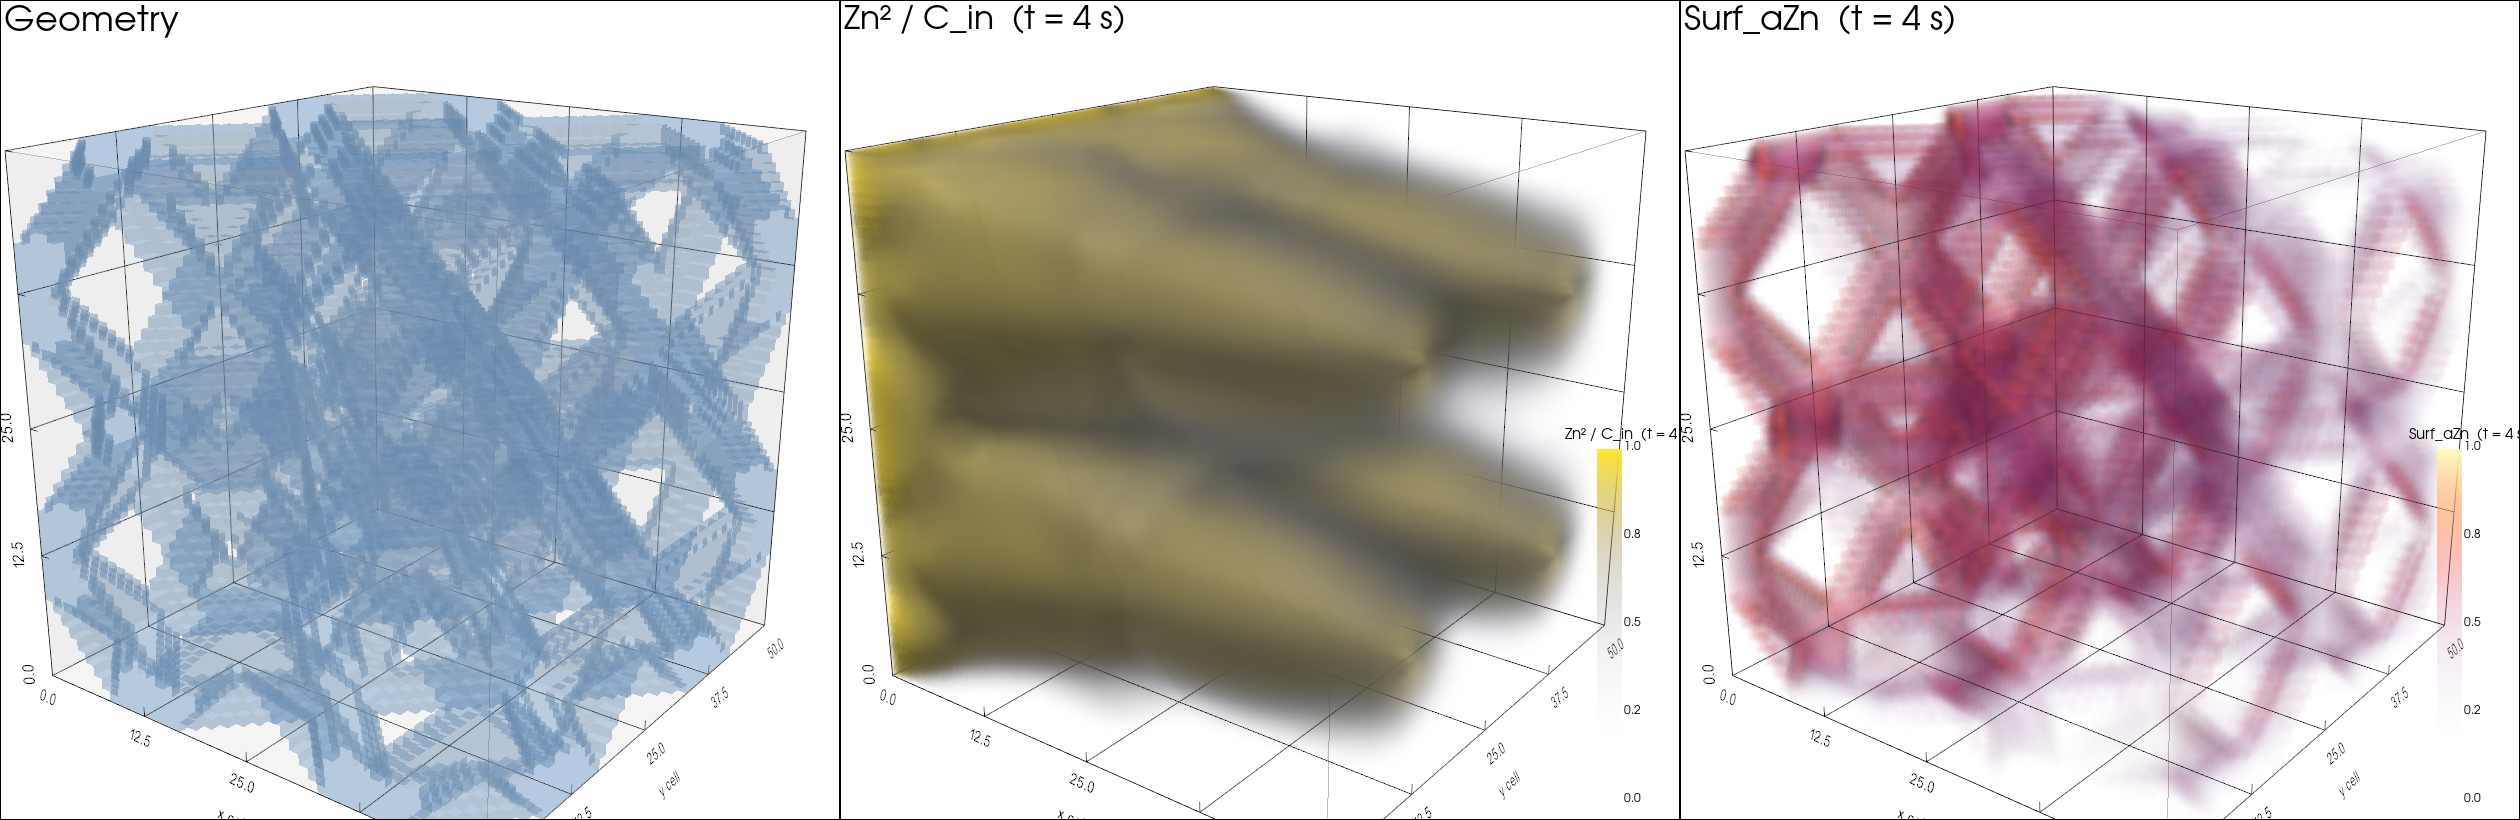
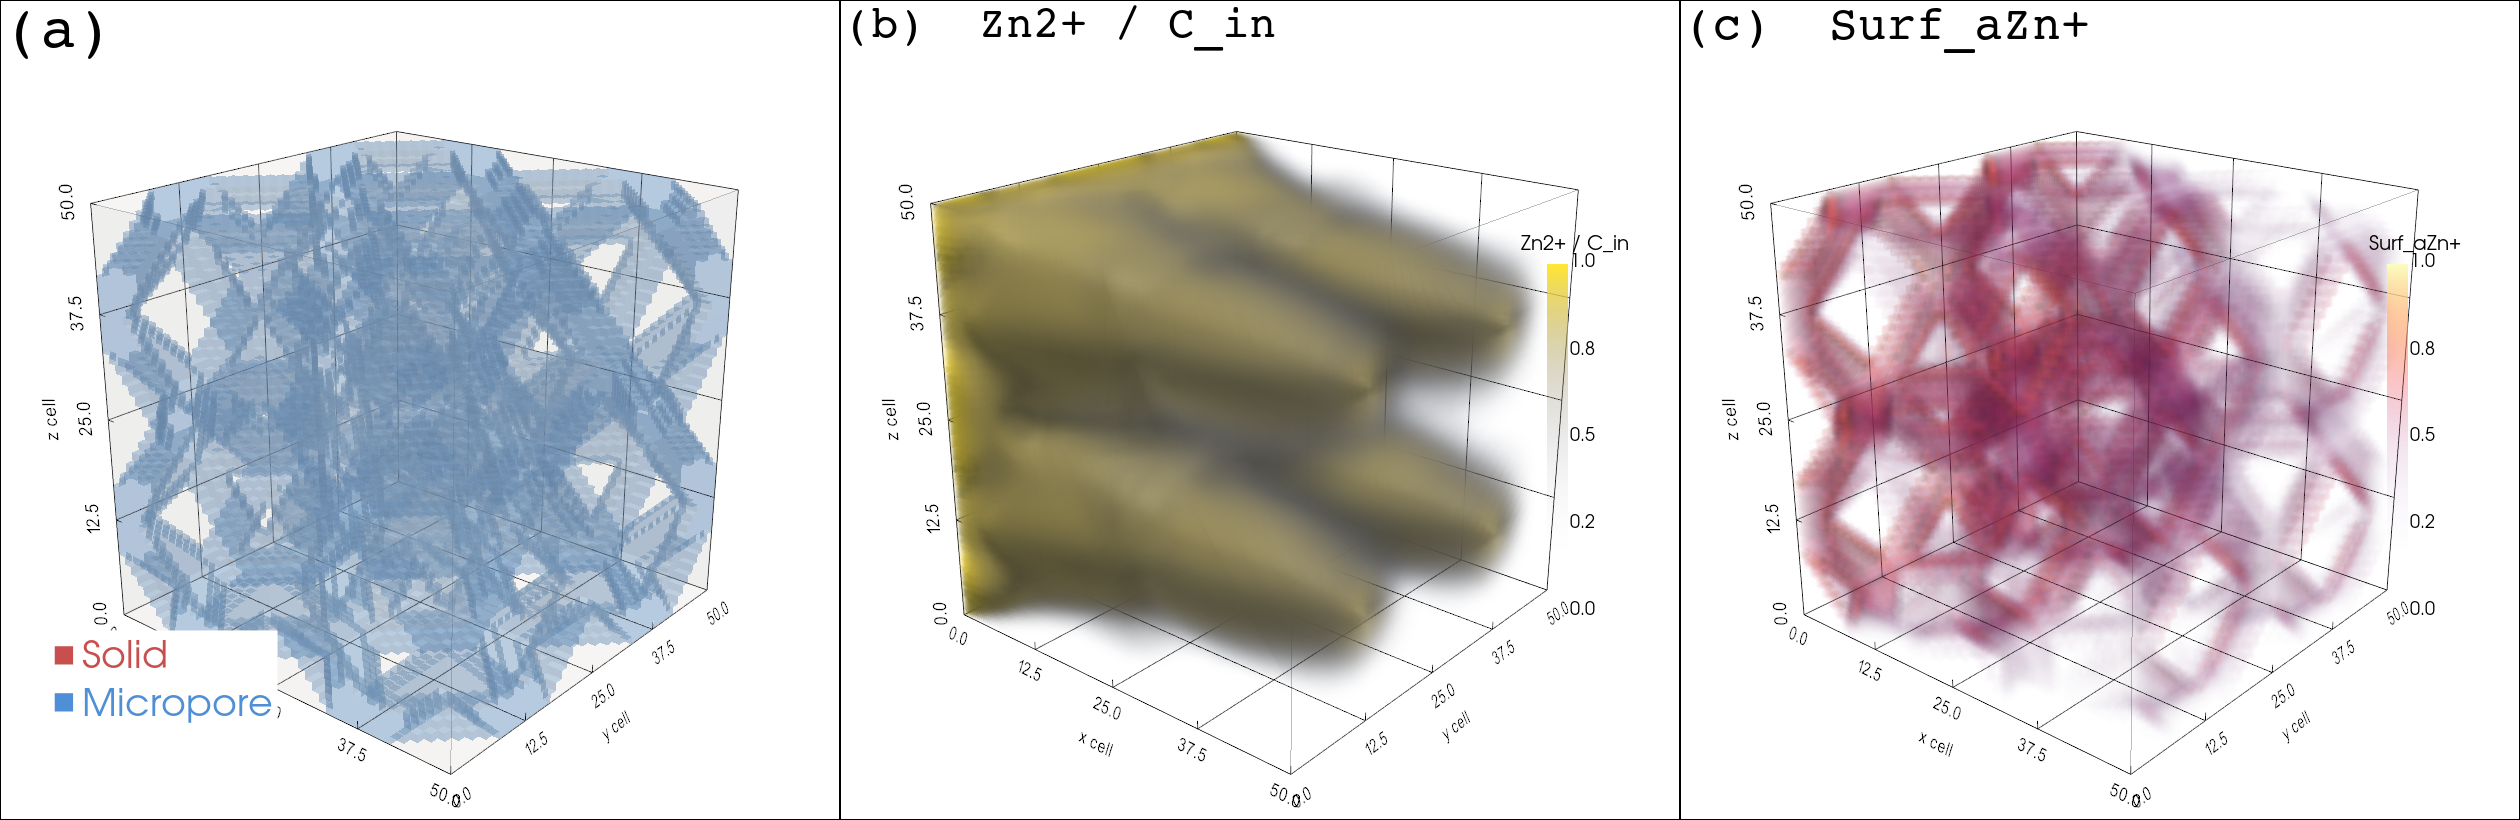
fix: add (a)-(d) panel labels, geometry legend, larger fonts; update captions
Add panel letter labels, phase legend to geometry panel, larger scalar bar
fonts, and move time to captions only. Update fig03/fig04 LaTeX captions to
describe panels (a)-(c) and (a)-(d) respectively.

diff --git a/figures/scripts/generate_3d_volume_render_pyvista.py b/figures/scripts/generate_3d_volume_render_pyvista.py
@@ -158,6 +158,7 @@ def add_geometry_panel(
     nx: int,
     ny: int,
     nz: int,
+    panel_label: str = "(a)",
 ) -> None:
     plotter.subplot(*subplot)
     plotter.set_background("white")
@@ -166,9 +167,9 @@ def add_geometry_panel(
     image.cell_data["phase"] = labels.flatten(order="F")
 
     phase_defs = [
-        (0, "solid", "#c94f4f", 0.28),
-        (1, "micropore", "#4f8fd6", 0.22),
-        (2, "pore", "#ffffff", 0.14),
+        (0, "Solid", "#c94f4f", 0.28),
+        (1, "Micropore", "#4f8fd6", 0.22),
+        (2, "Pore", "#ffffff", 0.14),
     ]
 
     for phase_value, _, color, opacity in phase_defs:
@@ -196,7 +197,15 @@ def add_geometry_panel(
         line_width=1.0,
         opacity=0.35,
     )
-    plotter.add_text("Geometry", position="upper_left", font_size=15, color="black")
+    plotter.add_text(panel_label, position="upper_left", font_size=24, color="black", font="courier")
+    plotter.add_legend(
+        labels=[(name, color) for _, name, color, _ in phase_defs],
+        face="rectangle",
+        bcolor="white",
+        border=True,
+        size=(0.28, 0.18),
+        loc="lower left",
+    )
     plotter.show_bounds(
         grid="back",
         location="outer",
@@ -204,7 +213,7 @@ def add_geometry_panel(
         xtitle="x cell",
         ytitle="y cell",
         ztitle="z cell",
-        font_size=12,
+        font_size=14,
         color="black",
     )
     plotter.camera_position = camera_position(nx, ny, nz)
@@ -212,7 +221,7 @@ def add_geometry_panel(
 
 def camera_position(nx: int, ny: int, nz: int) -> list[tuple[float, float, float]]:
     centre = (0.5 * nx, 0.5 * ny, 0.5 * nz)
-    position = (2.1 * nx, -1.65 * ny, 1.45 * nz)
+    position = (2.6 * nx, -2.0 * ny, 1.8 * nz)
     view_up = (0.0, 0.0, 1.0)
     return [position, centre, view_up]
 
@@ -227,6 +236,7 @@ def add_volume_panel(
     nx: int,
     ny: int,
     nz: int,
+    panel_label: str = "",
 ) -> None:
     plotter.subplot(*subplot)
     plotter.set_background("white")
@@ -244,8 +254,11 @@ def add_volume_panel(
             "title": scalar_bar_title,
             "vertical": True,
             "fmt": "%.1f",
-            "title_font_size": 15,
-            "label_font_size": 12,
+            "title_font_size": 20,
+            "label_font_size": 18,
+            "width": 0.07,
+            "position_x": 0.84,
+            "position_y": 0.25,
         },
     )
     plotter.add_mesh(
@@ -254,7 +267,7 @@ def add_volume_panel(
         line_width=1.0,
         opacity=0.35,
     )
-    plotter.add_text(title, position="upper_left", font_size=15, color="black")
+    plotter.add_text(f"{panel_label}  {title}", position="upper_left", font_size=20, color="black", font="courier")
     plotter.show_bounds(
         grid="back",
         location="outer",
@@ -262,7 +275,7 @@ def add_volume_panel(
         xtitle="x cell",
         ytitle="y cell",
         ztitle="z cell",
-        font_size=12,
+        font_size=14,
         color="black",
     )
     plotter.camera_position = camera_position(nx, ny, nz)
@@ -288,6 +301,7 @@ def main() -> None:
     parser.add_argument("--surface-title", default=None)
     parser.add_argument("--second-aqueous-field", default=None)
     parser.add_argument("--second-aqueous-title", default=None)
+    parser.add_argument("--second-aqueous-log-scale", action="store_true")
     args = parser.parse_args()
 
     pv.OFF_SCREEN = True
@@ -350,7 +364,7 @@ def main() -> None:
 
     use_2x2 = second_aqueous is not None
     shape = (2, 2) if use_2x2 else (1, 3)
-    win_size = (1680, 1640) if use_2x2 else (2520, 820)
+    win_size = (2800, 2800) if use_2x2 else (2520, 820)
     plotter = pv.Plotter(shape=shape, off_screen=True, window_size=win_size)
 
     add_geometry_panel(
@@ -360,11 +374,12 @@ def main() -> None:
         nx=nx,
         ny=ny,
         nz=nz,
+        panel_label="(a)",
     )
 
-    aq_title = args.aqueous_title if args.aqueous_title else f"{args.aqueous_field} / C_in  (t = {args.time_name})"
-    aq_bar = args.aqueous_title if args.aqueous_title else f"Norm. {args.aqueous_field} / C_in"
-    surf_title = args.surface_title if args.surface_title else f"\u0394{args.surface_field}  (t = {args.time_name})"
+    aq_title = args.aqueous_title if args.aqueous_title else f"{args.aqueous_field} / C_in"
+    aq_bar = args.aqueous_title if args.aqueous_title else f"Norm. {args.aqueous_field}"
+    surf_title = args.surface_title if args.surface_title else f"\u0394{args.surface_field}"
     surf_bar = args.surface_title if args.surface_title else f"Norm. \u0394{args.surface_field}"
 
     add_volume_panel(
@@ -377,6 +392,7 @@ def main() -> None:
         nx=nx,
         ny=ny,
         nz=nz,
+        panel_label="(b)",
     )
 
     if use_2x2:
@@ -384,22 +400,23 @@ def main() -> None:
             second_aqueous,
             lower_q=args.lower_quantile,
             upper_q=args.upper_quantile,
-            log_scale=False,
+            log_scale=args.second_aqueous_log_scale,
             zero_mask=False,
         )
         second_img = build_image_data(second_scaled)
-        aq2_title = args.second_aqueous_title if args.second_aqueous_title else f"{args.second_aqueous_field} / C_in  (t = {args.time_name})"
-        aq2_bar = args.second_aqueous_title if args.second_aqueous_title else f"Norm. {args.second_aqueous_field} / C_in"
+        aq2_title = args.second_aqueous_title if args.second_aqueous_title else f"{args.second_aqueous_field} / C_in"
+        aq2_bar = args.second_aqueous_title if args.second_aqueous_title else f"Norm. {args.second_aqueous_field}"
         add_volume_panel(
             plotter=plotter,
             dataset=second_img,
             subplot=(1, 0),
             title=aq2_title,
             scalar_bar_title=aq2_bar,
-            cmap="plasma",
+            cmap="cividis_r",
             nx=nx,
             ny=ny,
             nz=nz,
+            panel_label="(c)",
         )
         add_volume_panel(
             plotter=plotter,
@@ -411,6 +428,7 @@ def main() -> None:
             nx=nx,
             ny=ny,
             nz=nz,
+            panel_label="(d)",
         )
     else:
         add_volume_panel(
@@ -423,6 +441,7 @@ def main() -> None:
             nx=nx,
             ny=ny,
             nz=nz,
+            panel_label="(c)",
         )
 
     plotter.link_views()

diff --git a/sections/06_test_cases.tex b/sections/06_test_cases.tex
@@ -168,11 +168,12 @@ Surf\_aZn$^+$ accumulates while Surf\_aCa$^+$ is progressively displaced.
 \begin{figure}[htbp]
     \centering
     \includegraphics[width=0.9\linewidth]{figures/png/fig03_3d_kelvin.png}
-    \caption{Three-panel 3D volume-render result for the Kelvin competitive-sorption case at
-    \mbox{$t = 4\ \mathrm{s}$}. Left: segmented geometry (micropore diamond lattice in blue).
-    Middle: normalised dissolved Zn$^{2+}$ / $C_{\mathrm{in}}$ showing the advancing front
-    (inlet at left). Right: adsorbed Zn$^{2+}$ (\texttt{Surf\_aZn+}) concentrated in the
-    microporous diamond-lattice channels of the Kelvin-cell geometry.}
+    \caption{3D volume renders of the Kelvin competitive-sorption case at $t = 4$~s.
+    (a)~Segmented geometry: micropore diamond lattice in blue, solid in red.
+    (b)~Normalised dissolved Zn$^{2+}$ / $C_{\mathrm{in}}$; the advancing front enters
+    from the left.
+    (c)~Adsorbed Zn$^{2+}$ (\texttt{Surf\_aZn+}), concentrated in the microporous
+    diamond-lattice channels.}
     \label{fig:3DKelvin}
 \end{figure}
 
@@ -231,13 +232,14 @@ dissolved and adsorbed fields at $t = 40$~s.
 \begin{figure}[htbp]
     \centering
     \includegraphics[width=0.7\linewidth]{figures/png/fig04_3d_estaillades.png}
-    \caption{Four-panel 3D volume-render result for the Estaillades DGR case at
-    \mbox{$t = 40\ \mathrm{s}$}. Top-left: segmented geometry (pore in white,
-    micropore in blue, solid in red). Top-right: normalised dissolved Sr$^{2+}$
-    / $C_{\mathrm{in}}$ (advancing plume from the inlet). Bottom-left: normalised
-    dissolved Ca$^{2+}$ / $C_{\mathrm{init}}$ (depletion wave complementary to
-    the Sr$^{2+}$ front). Bottom-right: normalised incremental adsorbed
-    Sr$^{2+}$ (\mbox{$\Delta$\texttt{Surf\_aSr+}}), showing surface exchange
-    concentrated in the micropore network.}
+    \caption{3D volume renders of the Estaillades DGR case at $t = 40$~s.
+    (a)~Segmented geometry: micropore in blue, solid in red.
+    (b)~Normalised dissolved Sr$^{2+}$ / $C_{\mathrm{in}}$; the plume advances
+    from the inlet (left face).
+    (c)~Normalised dissolved Ca$^{2+}$ / $C_{\mathrm{init}}$ (log scale);
+    the complementary depletion wave shows that Sr$^{2+}$ has displaced Ca$^{2+}$
+    in the swept region.
+    (d)~Incremental adsorbed Sr$^{2+}$ (\mbox{$\Delta$\texttt{Surf\_aSr+}},
+    log scale), concentrated in the micropore network at the exchange front.}
     \label{fig:3DEstaillades}
 \end{figure}
